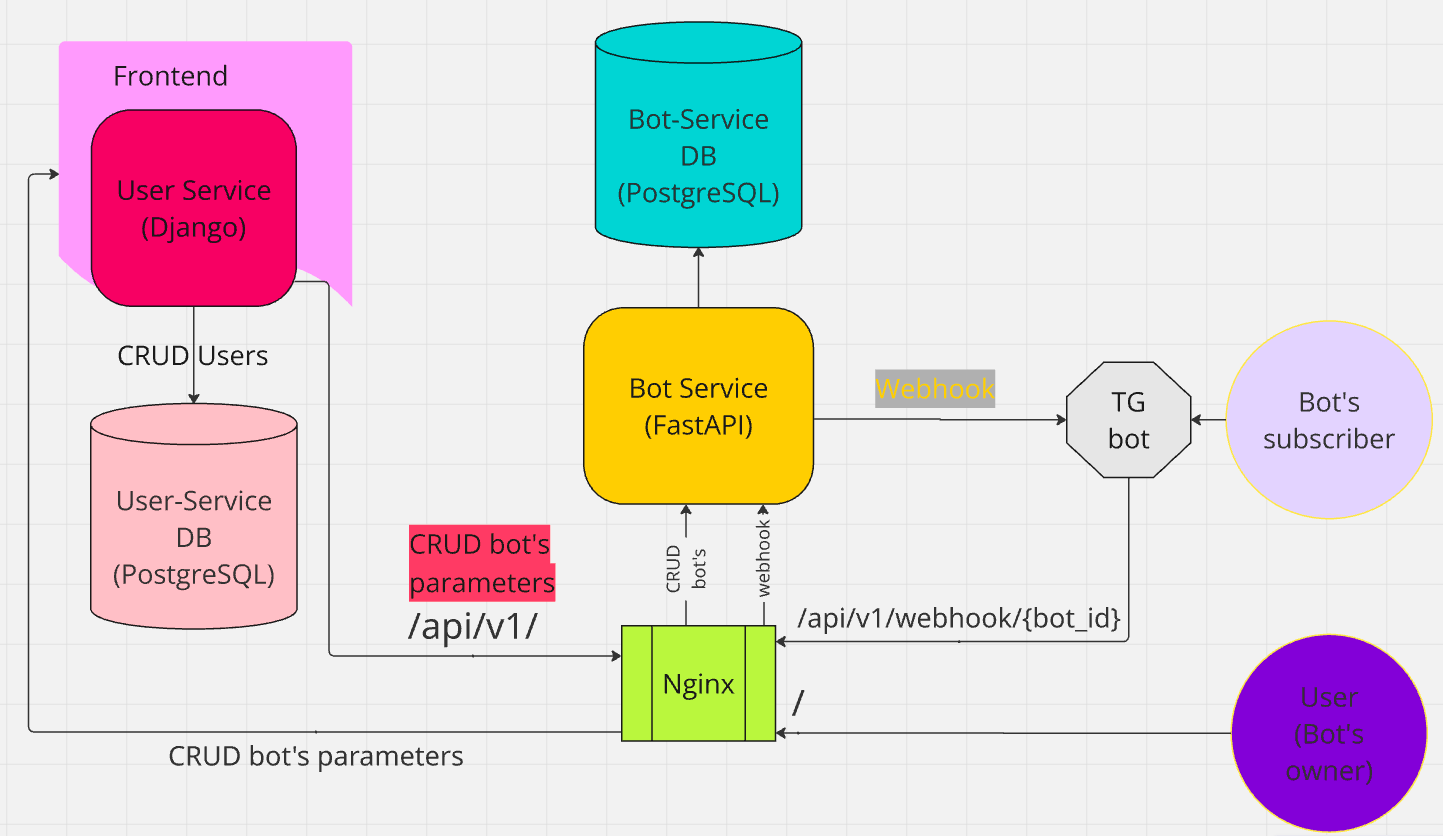
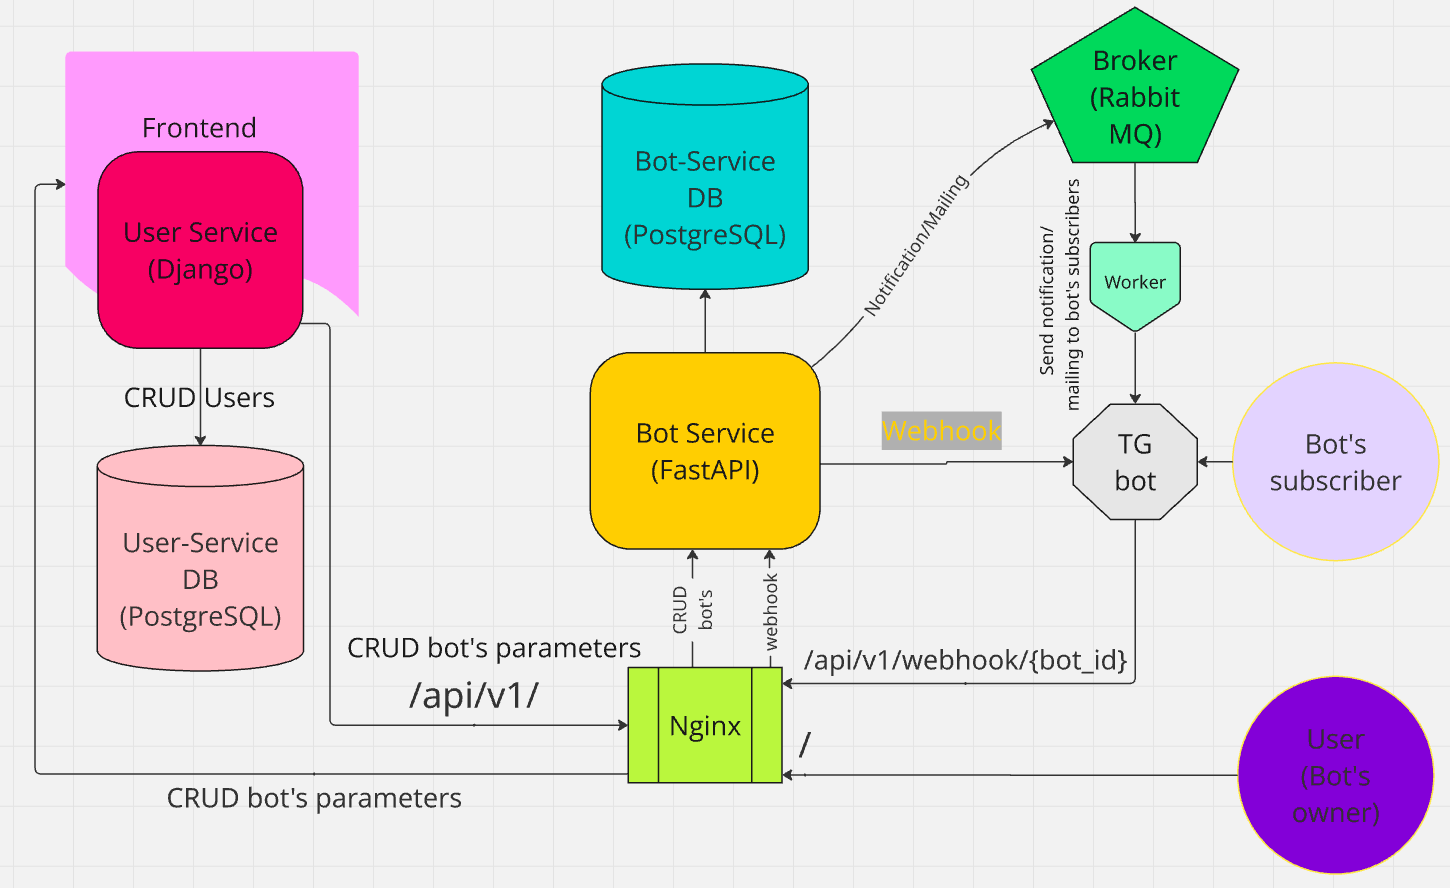
Fix: update readme.

diff --git a/README.md b/README.md
@@ -7,6 +7,7 @@
 ![nocode-bot.ru](readme/nocode-bot.png)
 * FastAPI
 * Django
+* RabbitMQ
 * PostgreSQL
 * SQLAlchemy
 * Alembic
@@ -16,7 +17,7 @@
 * Настроен pre-commit и CI проверки кода различными линтерами
 * Pytests, unittest
 ## Переменные окружения
-Создайте файл /.env используя /.env.example(.env.dev для локального запуска).
+Создайте файл /.env используя /.env.dev (.env.example для запуска на сервере).
 Для настройки Webhook telegram необходимо иметь SSL сертификаты. Для локальной разработки можно использовать Ngrok(инфу по установки можно найти в интернете).
 ```
 ngrok http 8080
@@ -34,7 +35,7 @@ make start-dev
 make run-tests
 ```
 
-Платформа будет доступна по адресу http://127.0.0.1:8000/.
+Платформа будет доступна по адресу http://127.0.0.1/.
 
 API-документация: http://127.0.0.1:8080/docs.
 
